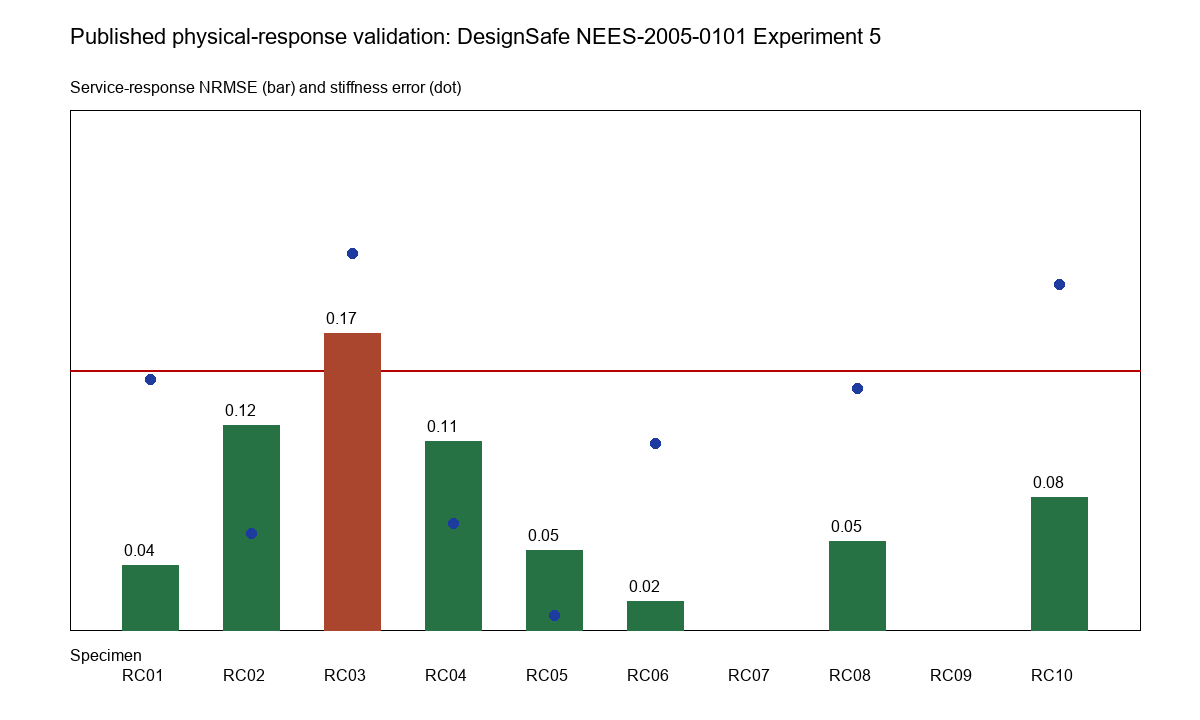
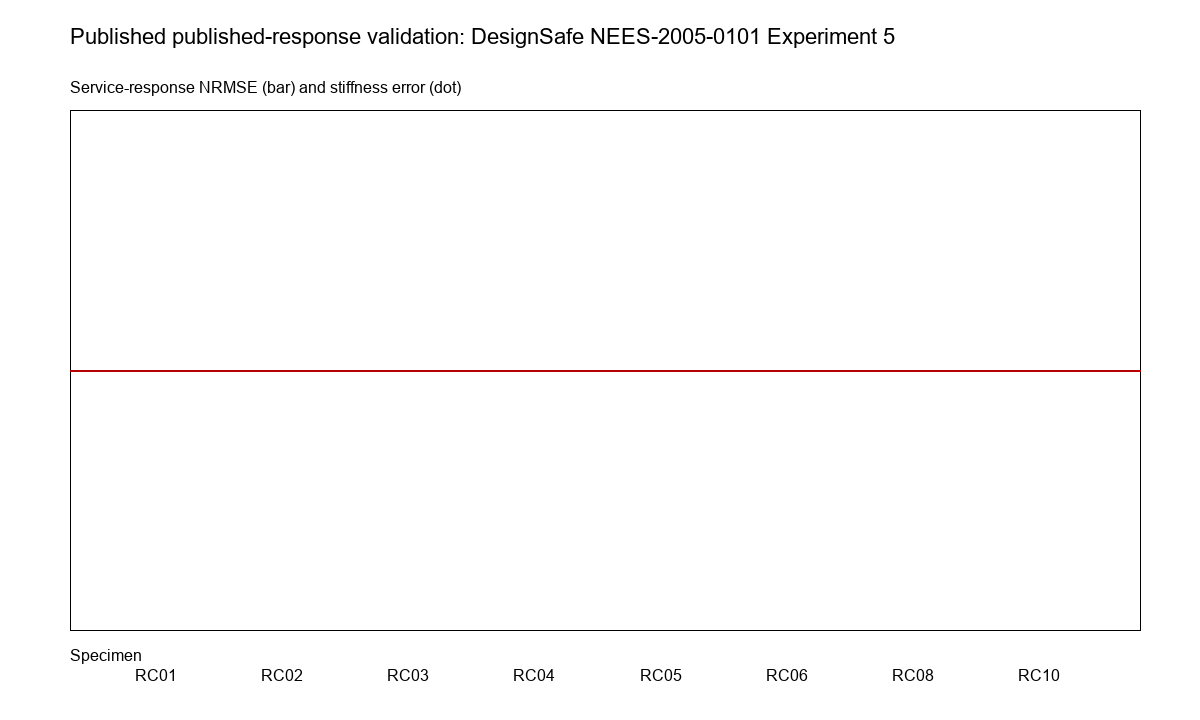
Preserve full logs across quick and smoke runs

diff --git a/run_all.py b/run_all.py
@@ -83,10 +83,13 @@ def main() -> None:
 
     if args.quick:
         scripts = list(REPORTING_SCRIPTS)
+        mode = "quick"
     elif args.smoke:
         scripts = list(SMOKE_SCRIPTS)
+        mode = "smoke"
     else:
         scripts = list(CORE_SCRIPTS)
+        mode = "full"
 
     if not args.quick and not args.smoke:
         for required_file, script in OPTIONAL_EXTERNAL_DATA:
@@ -101,14 +104,16 @@ def main() -> None:
         print(f"RUN {script}")
         log_rows.append(run_script(script, args.continue_on_error))
 
+    log_text = "\n".join(f"{script},returncode={code},elapsed_s={elapsed:.3f}" for script, code, elapsed in log_rows) + "\n"
+    mode_log = BASE / f"run_all_{mode}_log.txt"
+    mode_log.write_text(log_text, encoding="utf-8")
     out = BASE / "run_all_log.txt"
-    out.write_text(
-        "\n".join(f"{script},returncode={code},elapsed_s={elapsed:.3f}" for script, code, elapsed in log_rows)
-        + "\n",
-        encoding="utf-8",
-    )
+    if mode == "full":
+        out.write_text(log_text, encoding="utf-8")
     refresh_log_dependent_reports(scripts, args.continue_on_error)
-    print(out)
+    print(mode_log)
+    if mode != "full":
+        print(f"{out} unchanged; quick/smoke logs are mode-specific")
 
 
 if __name__ == "__main__":

diff --git a/README.md b/README.md
@@ -33,7 +33,7 @@ To regenerate summary files from the included outputs:
 python run_all.py --quick
 ```
 
-This mode overwrites `run_all_log.txt` with the quick-run scripts only. Runtime fields for scripts not executed in the selected mode are reported as `not_measured` after the log-dependent summary is refreshed.
+This mode writes `run_all_quick_log.txt`; it does not overwrite the full-run `run_all_log.txt`. The log-dependent summary continues to use the included full-run log unless a new full run is executed.
 
 ## Smoke Rebuild
 
@@ -43,7 +43,7 @@ To run a short reviewer smoke test that checks core logic, claim blocking, manua
 python run_all.py --smoke
 ```
 
-This mode also overwrites `run_all_log.txt`; omitted long-running scripts remain represented by their included output files but their runtime fields are reported as `not_measured` for that smoke run.
+This mode writes `run_all_smoke_log.txt`; it does not overwrite the full-run `run_all_log.txt`. Omitted long-running scripts remain represented by their included output files and by the preserved full-run log.
 
 ## Core Rebuild
 
@@ -70,7 +70,7 @@ The files `cgc_truss_published_test_register.csv`, `cgc_truss_experimental_respo
 | Layer | Reproducible from ZIP only | Requires external public raw dataset |
 |---|---|---|
 | Core optimization and claim-risk scripts | Yes | No |
-| Software-package integrity checks | Yes, in supplement-only mode; upload hash is checked in the full package folder | No |
+| Software-package integrity checks | Yes, in supplement-only mode; the upload ZIP SHA256 is recorded in the delivery manifest | No |
 | Portal-frame published response support | Yes for processed service-envelope points and reported metrics | Yes to regenerate processed points from raw DesignSafe/NEES files |
 | Truss published response support | Yes, using processed response scores plus Zenodo acquisition instructions | No |
 | AISC W-shape catalog audit | Yes for included audit outputs | Yes to rerun from the official AISC spreadsheet |
@@ -79,7 +79,7 @@ The files `cgc_truss_published_test_register.csv`, `cgc_truss_experimental_respo
 
 The submission ZIP intentionally separates processed evidence from large or third-party source files. The Zenodo steel-truss workbook is public and citable, but the submission ZIP provides processed response points and acquisition instructions rather than bundling the large workbook. The legacy DesignSafe/NEES SAC Steel Project raw files are not redistributed because an open redistribution license was not confirmed for that record; processed service-envelope points, manifest rows, and an acquisition note are included instead. The AISC Shapes Database spreadsheet is also not redistributed because it is a third-party catalog resource; the package includes audit outputs and an acquisition note explaining how a reviewer can obtain the official spreadsheet and rerun the optional AISC catalog audit.
 
-The files `cgc_software_package_integrity.py`, `cgc_software_package_integrity_details.csv`, `cgc_software_package_integrity_summary.csv`, and `cgc_software_package_integrity_note.txt` implement software-package integrity checks for the reproducibility package. This layer checks Python syntax, required application scripts, CSV schemas, processed datasets, presentation artifacts, ZIP restrictions, and upload-package hash consistency. It supports software/package integrity only; it is not structural-code approval, legal approval, professional approval, or complete regulatory approval.
+The files `cgc_software_package_integrity.py`, `cgc_software_package_integrity_details.csv`, `cgc_software_package_integrity_summary.csv`, and `cgc_software_package_integrity_note.txt` implement software-package integrity checks for the reproducibility package. This layer checks Python syntax, required application scripts, CSV schemas, processed datasets, presentation artifacts, and ZIP restrictions; the upload-package SHA256 is recorded in the delivery manifest to avoid self-hash recursion. It supports software/package integrity only; it is not structural-code approval, legal approval, professional approval, or complete regulatory approval.
 
 The older files `cgc_response_support_protocol.md`, `cgc_response_support_protocol_rows.csv`, and `cgc_response_support_metrics.py` remain as a historical protocol/gating demonstration for future external-response datasets; the CSV contains protocol rows only, not redistributed third-party raw measurements. The published-response module above is the active response-support layer used by the reporting summary.
 
@@ -106,6 +106,7 @@ The included logs and verification tables document quick/reporting execution, pe
 ## Scope
 
 The scripts verify encoded constraints under declared assumptions. They do not certify full physical safety, complete regulatory approval, robust response support under uncertainty, or unrestricted global MINLP optimality.
+
 
 
 